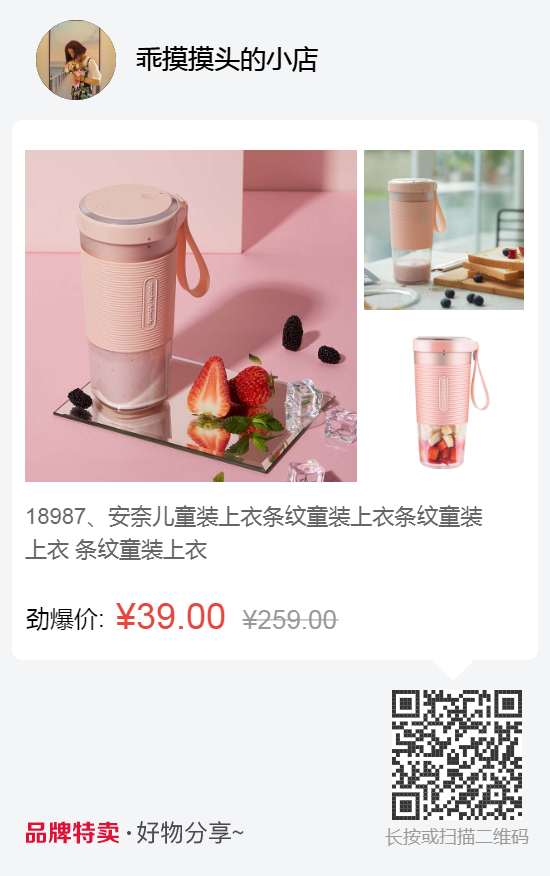
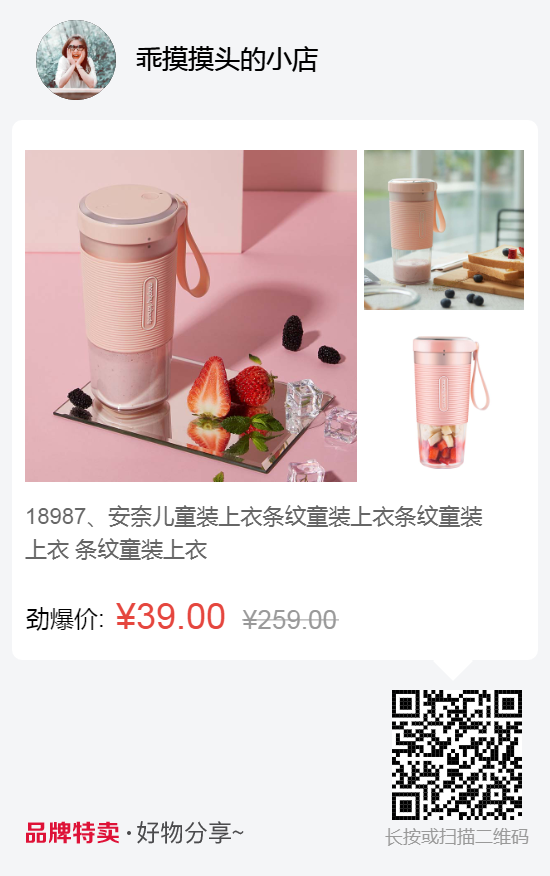
readme

Changed region(s): [[0.7109, 0.7705, 0.9582, 0.9555], [0.0618, 0.0, 0.2164, 0.1233]]

diff --git a/examples/App.vue b/examples/App.vue
@@ -26,7 +26,7 @@ export default {
           },
           {
             type: 'image',
-            url: 'https://tothers.top1buyer.com/wx.qlogo.cn/mmopen/vi_32/xiclf81ib8KrmcHw6pVW5ibHRh2DuibhaptzX9QpaSS2X0I7o8xIA8CEsD5Jw6icYnw9uxvxkGSzCWLSqYrVOwwSwSA/132',
+            url: 'https://avatars0.githubusercontent.com/u/35954879?s=460&v=4',
             left: 36,
             top: 20,
             width: 80,

diff --git a/README.md b/README.md
@@ -9,16 +9,25 @@ vue 组件-简单属性画 Canvas 图
 一个通过 css 属性画 canvas 图片的轻量级的 vue 组件
 (A lightweight vue components use canvas draw image by css properties.)
 
+具有如下特性：
+
+- 绘制文本(换行、超出内容省略号、中划线、下划线、文本加粗)
+- 绘制图片(圆角、旋转)
+- 绘制矩形(圆角、旋转)
+- 绘制二维码
+
 ## 生成效果
 
-<img width="300" src="https://github.com/sunnie1992/vue_canvas_poster/tree/master/examples/assets/demo.png"/>
+<img width="300" src="https://github.com/sunnie1992/vue_canvas_poster/examples/assets/demo.png"/>
 
 ## 安装
 
 #### 通过 npm 安装
 
 ```
+
 # npm
+
 npm i vue-canvas-poster --save
 
 ```
@@ -43,6 +52,158 @@ import Vue from 'vue'
 import vueCanvasPoster from 'vue-canvas-poster'
 Vue.use(vueCanvasPoster)
 ```
+
+<details><summary>painting（点击展开）</summary><br>
+
+```javascript
+
+     {
+        width: 550,
+        height: 876,
+        views: [
+          {
+            type: 'rect',
+            top: 0,
+            left: 0,
+            background: '#f4f5f7',
+            width: 550,
+            height: 876
+          },
+          {
+            type: 'image',
+            url: 'https://avatars0.githubusercontent.com/u/35954879?s=460&v=4',
+            left: 36,
+            top: 20,
+            width: 80,
+            height: 80,
+            radius: 40
+          },
+          {
+            type: 'text',
+            content: '乖摸摸头的小店',
+            fontSize: 26,
+            bolder: true,
+            top: 48,
+            left: 136,
+            width: 360,
+            breakWord: true,
+            MaxLineNumber: 1,
+          },
+          {
+            type: 'rect',
+            top: 120,
+            left: 12,
+            background: '#FFFFFF',
+            width: 526,
+            height: 540,
+            radius: 10
+          },
+          // 本地图片
+          {
+            type: 'image',
+            url: require('./assets/1.jpg'),
+            left: 25,
+            top: 150,
+            width: 332,
+            height: 332,
+          },
+          // 网络图片
+          {
+            type: 'image',
+            url: 'https://tgoods.top1buyer.com/res/testfile/imgs/20190702180744/MR9600-Pink/2.jpg',
+            left: 364,
+            top: 150,
+            width: 160,
+            height: 160
+          },
+          {
+            type: 'image',
+            url: 'https://tgoods.top1buyer.com/res/testfile/imgs/20190702180744/MR9600-Pink/3.jpg',
+            left: 364,
+            top: 320,
+            width: 160,
+            height: 160
+          },
+          {
+            type: 'text',
+            content: `18987、安奈儿童装上衣条纹童装上衣条纹童装上衣 条纹童装上衣`,
+            color: '#666666',
+            fontSize: 22,
+            top: 507,
+            left: 25,
+            width: 450,
+            lineHeight: 33,
+            MaxLineNumber: 2,
+            breakWord: true
+          },
+
+          {
+            type: 'text',
+            content: `劲爆价:`,
+            fontSize: 24,
+            top: 608,
+            left: 26,
+          },
+          {
+            type: 'text',
+            content: `¥39.00`,
+            color: '#E5463E',
+            fontSize: 36,
+            border: true,
+            top: 601,
+            left: 116
+          },
+          {
+            type: 'text',
+            content: `¥259.00`,
+            color: '#999999',
+            fontSize: 26,
+            border: true,
+            top: 609,
+            left: 243,
+            textDecoration: 'line-through'
+          },
+          {
+            type: 'rect',
+            top: 647,
+            left: 439,
+            background: '#fff',
+            width: 28,
+            height: 28,
+            deg: 45
+          },
+          {
+            type: 'text',
+            content: `长按或扫描二维码`,
+            fontSize: 18,
+            color: '#999999',
+            top: 829,
+            left: 385
+          },
+          // 本地图片
+          {
+            type: 'image',
+            url: require('./assets/slogen.png'),
+            left: 26,
+            top: 821,
+            width: 218,
+            height: 24
+          },
+          {
+            type: 'qrcode',
+            content: 'https://github.com/sunnie1992/vue_canvas_poster',
+            background: '#fff',
+            color: '#000',
+            left: 392,
+            top: 690,
+            width: 130,
+            height: 130
+          },
+        ]
+      }
+```
+
+  </details>
 
 ## 组件参数解释
 
